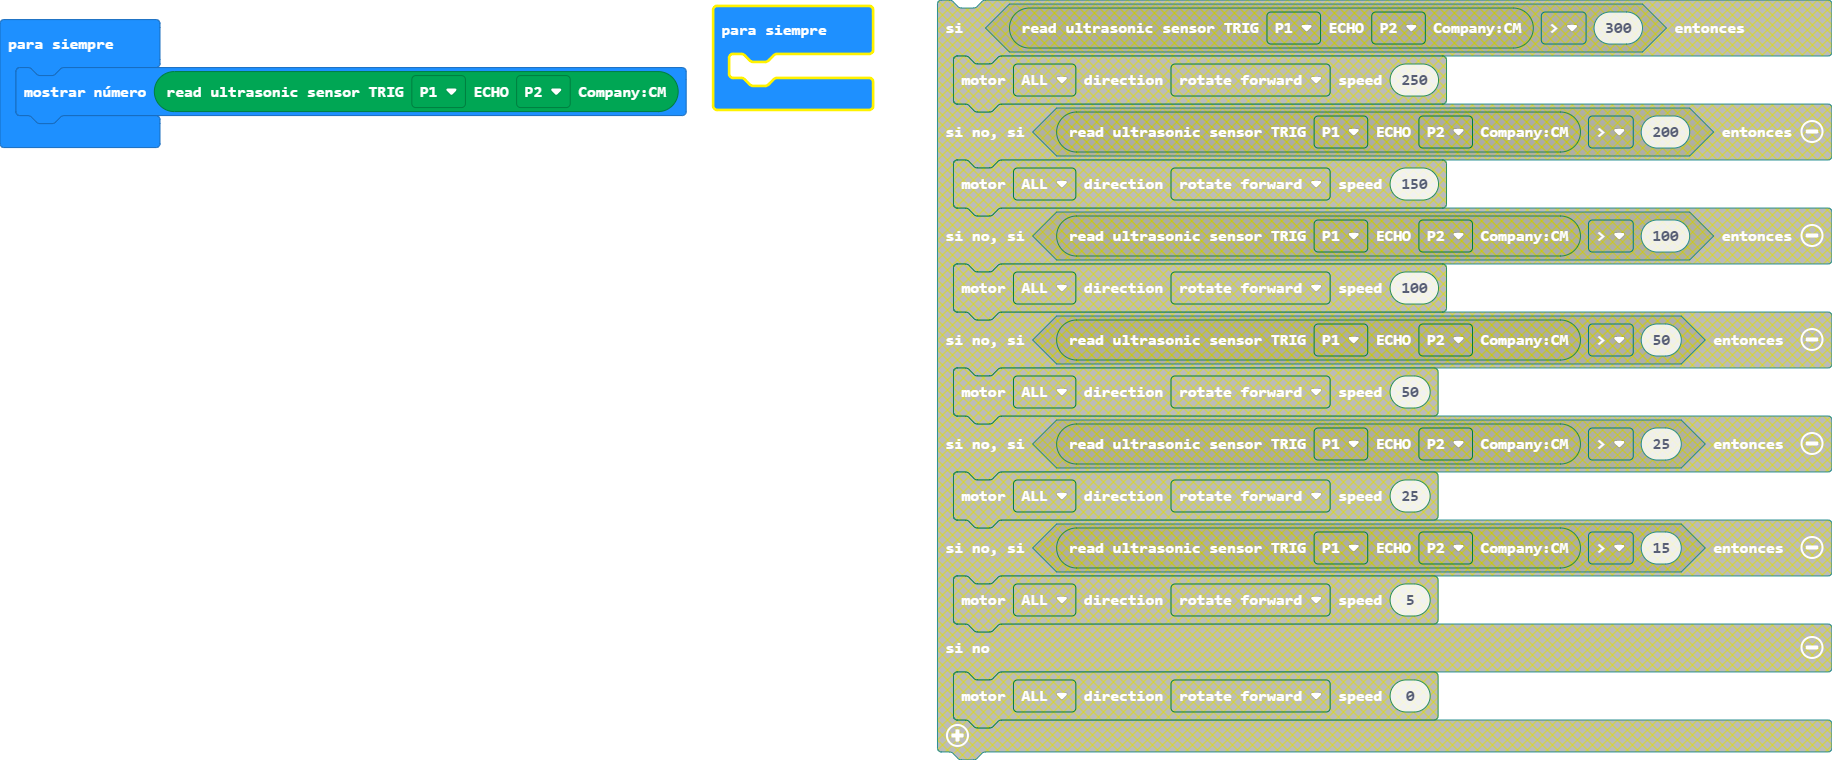
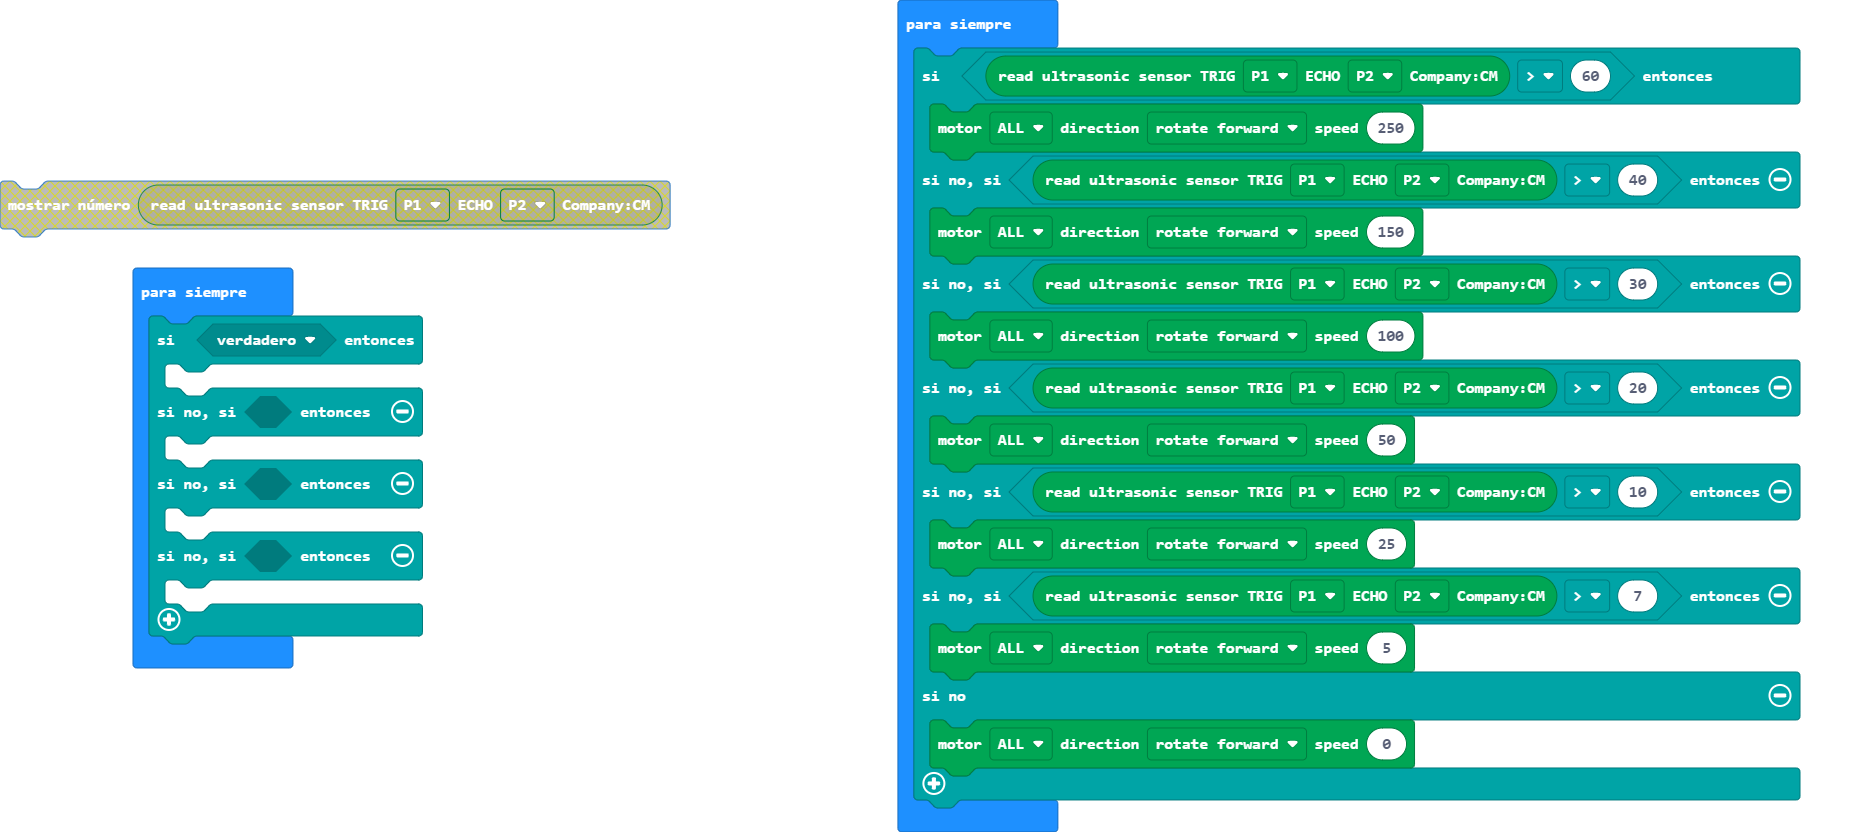
Actualizar pxt.json, main.blocks, main.ts

diff --git a/main.ts b/main.ts
@@ -1,6 +1,28 @@
 basic.forever(function () {
-    basic.showNumber(DFRobotMaqueenPlus.ultraSonic(PIN.P1, PIN.P2))
+    if (DFRobotMaqueenPlus.ultraSonic(PIN.P1, PIN.P2) > 60) {
+        DFRobotMaqueenPlus.mototRun(Motors.ALL, Dir.CW, 250)
+    } else if (DFRobotMaqueenPlus.ultraSonic(PIN.P1, PIN.P2) > 40) {
+        DFRobotMaqueenPlus.mototRun(Motors.ALL, Dir.CW, 150)
+    } else if (DFRobotMaqueenPlus.ultraSonic(PIN.P1, PIN.P2) > 30) {
+        DFRobotMaqueenPlus.mototRun(Motors.ALL, Dir.CW, 100)
+    } else if (DFRobotMaqueenPlus.ultraSonic(PIN.P1, PIN.P2) > 20) {
+        DFRobotMaqueenPlus.mototRun(Motors.ALL, Dir.CW, 50)
+    } else if (DFRobotMaqueenPlus.ultraSonic(PIN.P1, PIN.P2) > 10) {
+        DFRobotMaqueenPlus.mototRun(Motors.ALL, Dir.CW, 25)
+    } else if (DFRobotMaqueenPlus.ultraSonic(PIN.P1, PIN.P2) > 7) {
+        DFRobotMaqueenPlus.mototRun(Motors.ALL, Dir.CW, 5)
+    } else {
+        DFRobotMaqueenPlus.mototRun(Motors.ALL, Dir.CW, 0)
+    }
 })
 basic.forever(function () {
-	
+    if (true) {
+    	
+    } else if (false) {
+    	
+    } else if (false) {
+    	
+    } else if (false) {
+    	
+    }
 })
